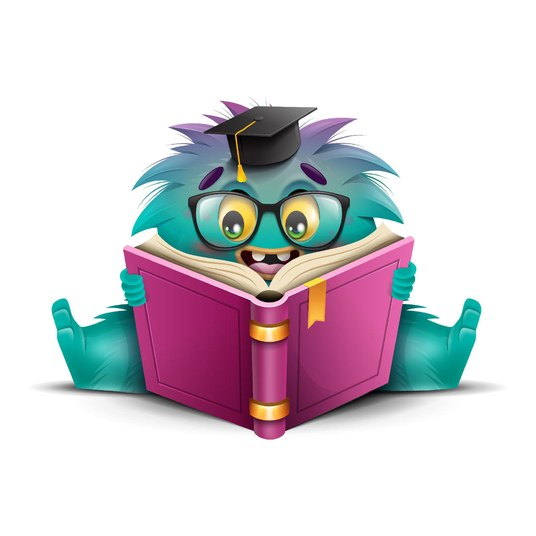
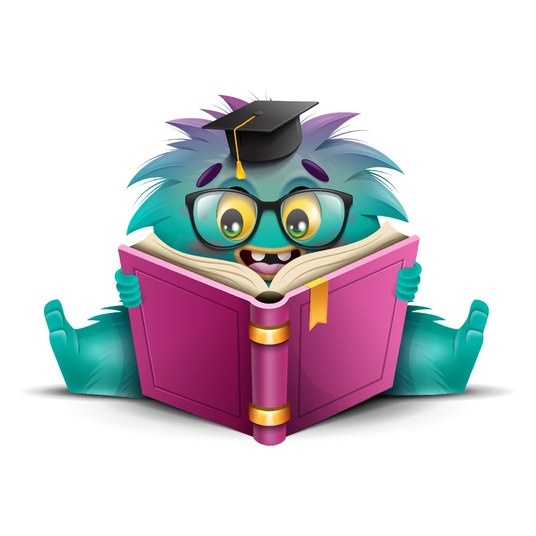
ミキワン（07）を追加、全モンスター画像を元ファイルに差し替え
Claude-Session: https://claude.ai/code/session_01YJfFiRqoRtsksZasJj6Zdz

Changed region(s): [[0.0597, 0.1791, 0.9552, 0.8358]]

diff --git a/_monsters/mikiwan.md b/_monsters/mikiwan.md
@@ -1,0 +1,12 @@
+---
+key: mikiwan
+no: "07"
+title: ミキワン
+role_en: TRAINING EVALUATOR
+catch: 成果を見極める冷静な研修評価者
+desc: いつも落ち着いていて、データを見るのが得意。「楽しかった」だけでは満足せず、本当に学びにつながったかを確かめる。
+origin: 見極める＋ワン
+specialties: [アンケート分析, 学習効果評価, 改善提案]
+image: /assets/img/monsters/mikiwan.jpg
+color: sky
+---

diff --git a/_posts/2026-11-21-hello.md b/_posts/2026-11-21-hello.md
@@ -21,6 +21,7 @@ HR Monster では、スキルを得意技として持つモンスターたちが
 - **トイモン**：研修の本質を考える哲学者
 - **マナブー**：学びを形にする研修開発の職人
 - **モテナン**：最高の研修体験をつくるおもてなし上手
+- **ミキワン**：成果を見極める冷静な研修評価者
 
 モンスターはこれからも増えていきます。
 
